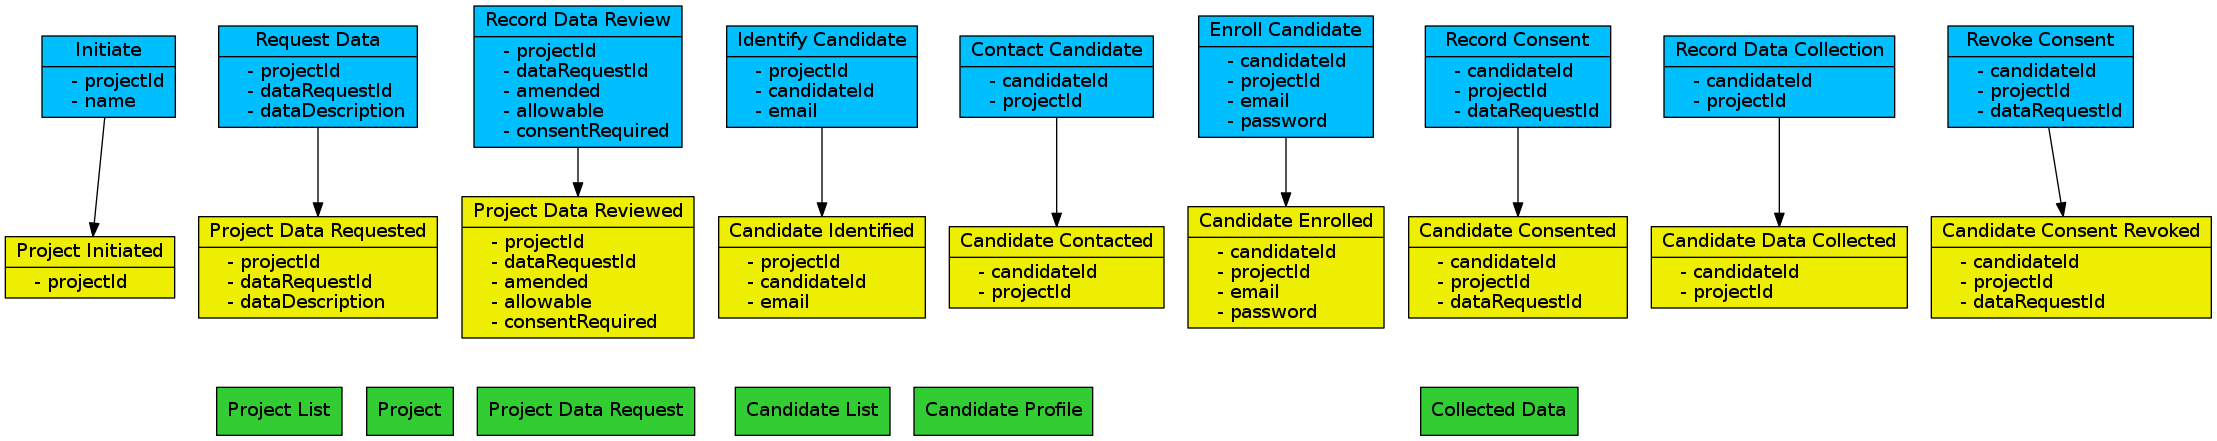
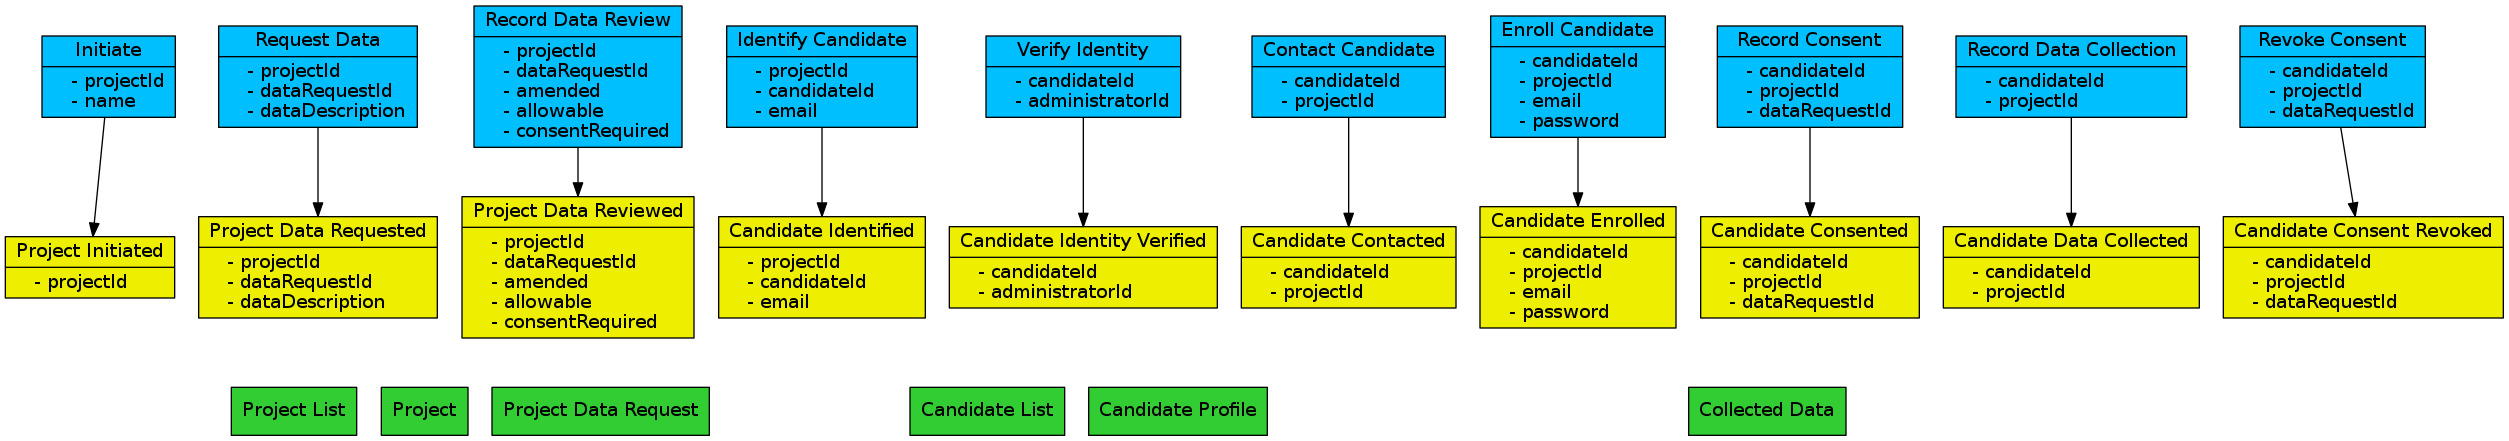
identity verification added.

diff --git a/README.md b/README.md
@@ -22,6 +22,9 @@ Project Data Request*
 
 Identify Candidate -> // projectId, candidateId, email
 Candidate Identified // projectId, candidateId, email
+
+Verify Identity-> // candidateId, administratorId
+Candidate Identity Verified // candidateId, administratorId
 Candidate List*
 Candidate Profile*
 
@@ -39,6 +42,7 @@ Collected Data*
 
 Revoke Consent-> //  candidateId, projectId, dataRequestId
 Candidate Consent Revoked // candidateId, projectId, dataRequestId
+
 ```
 
 
